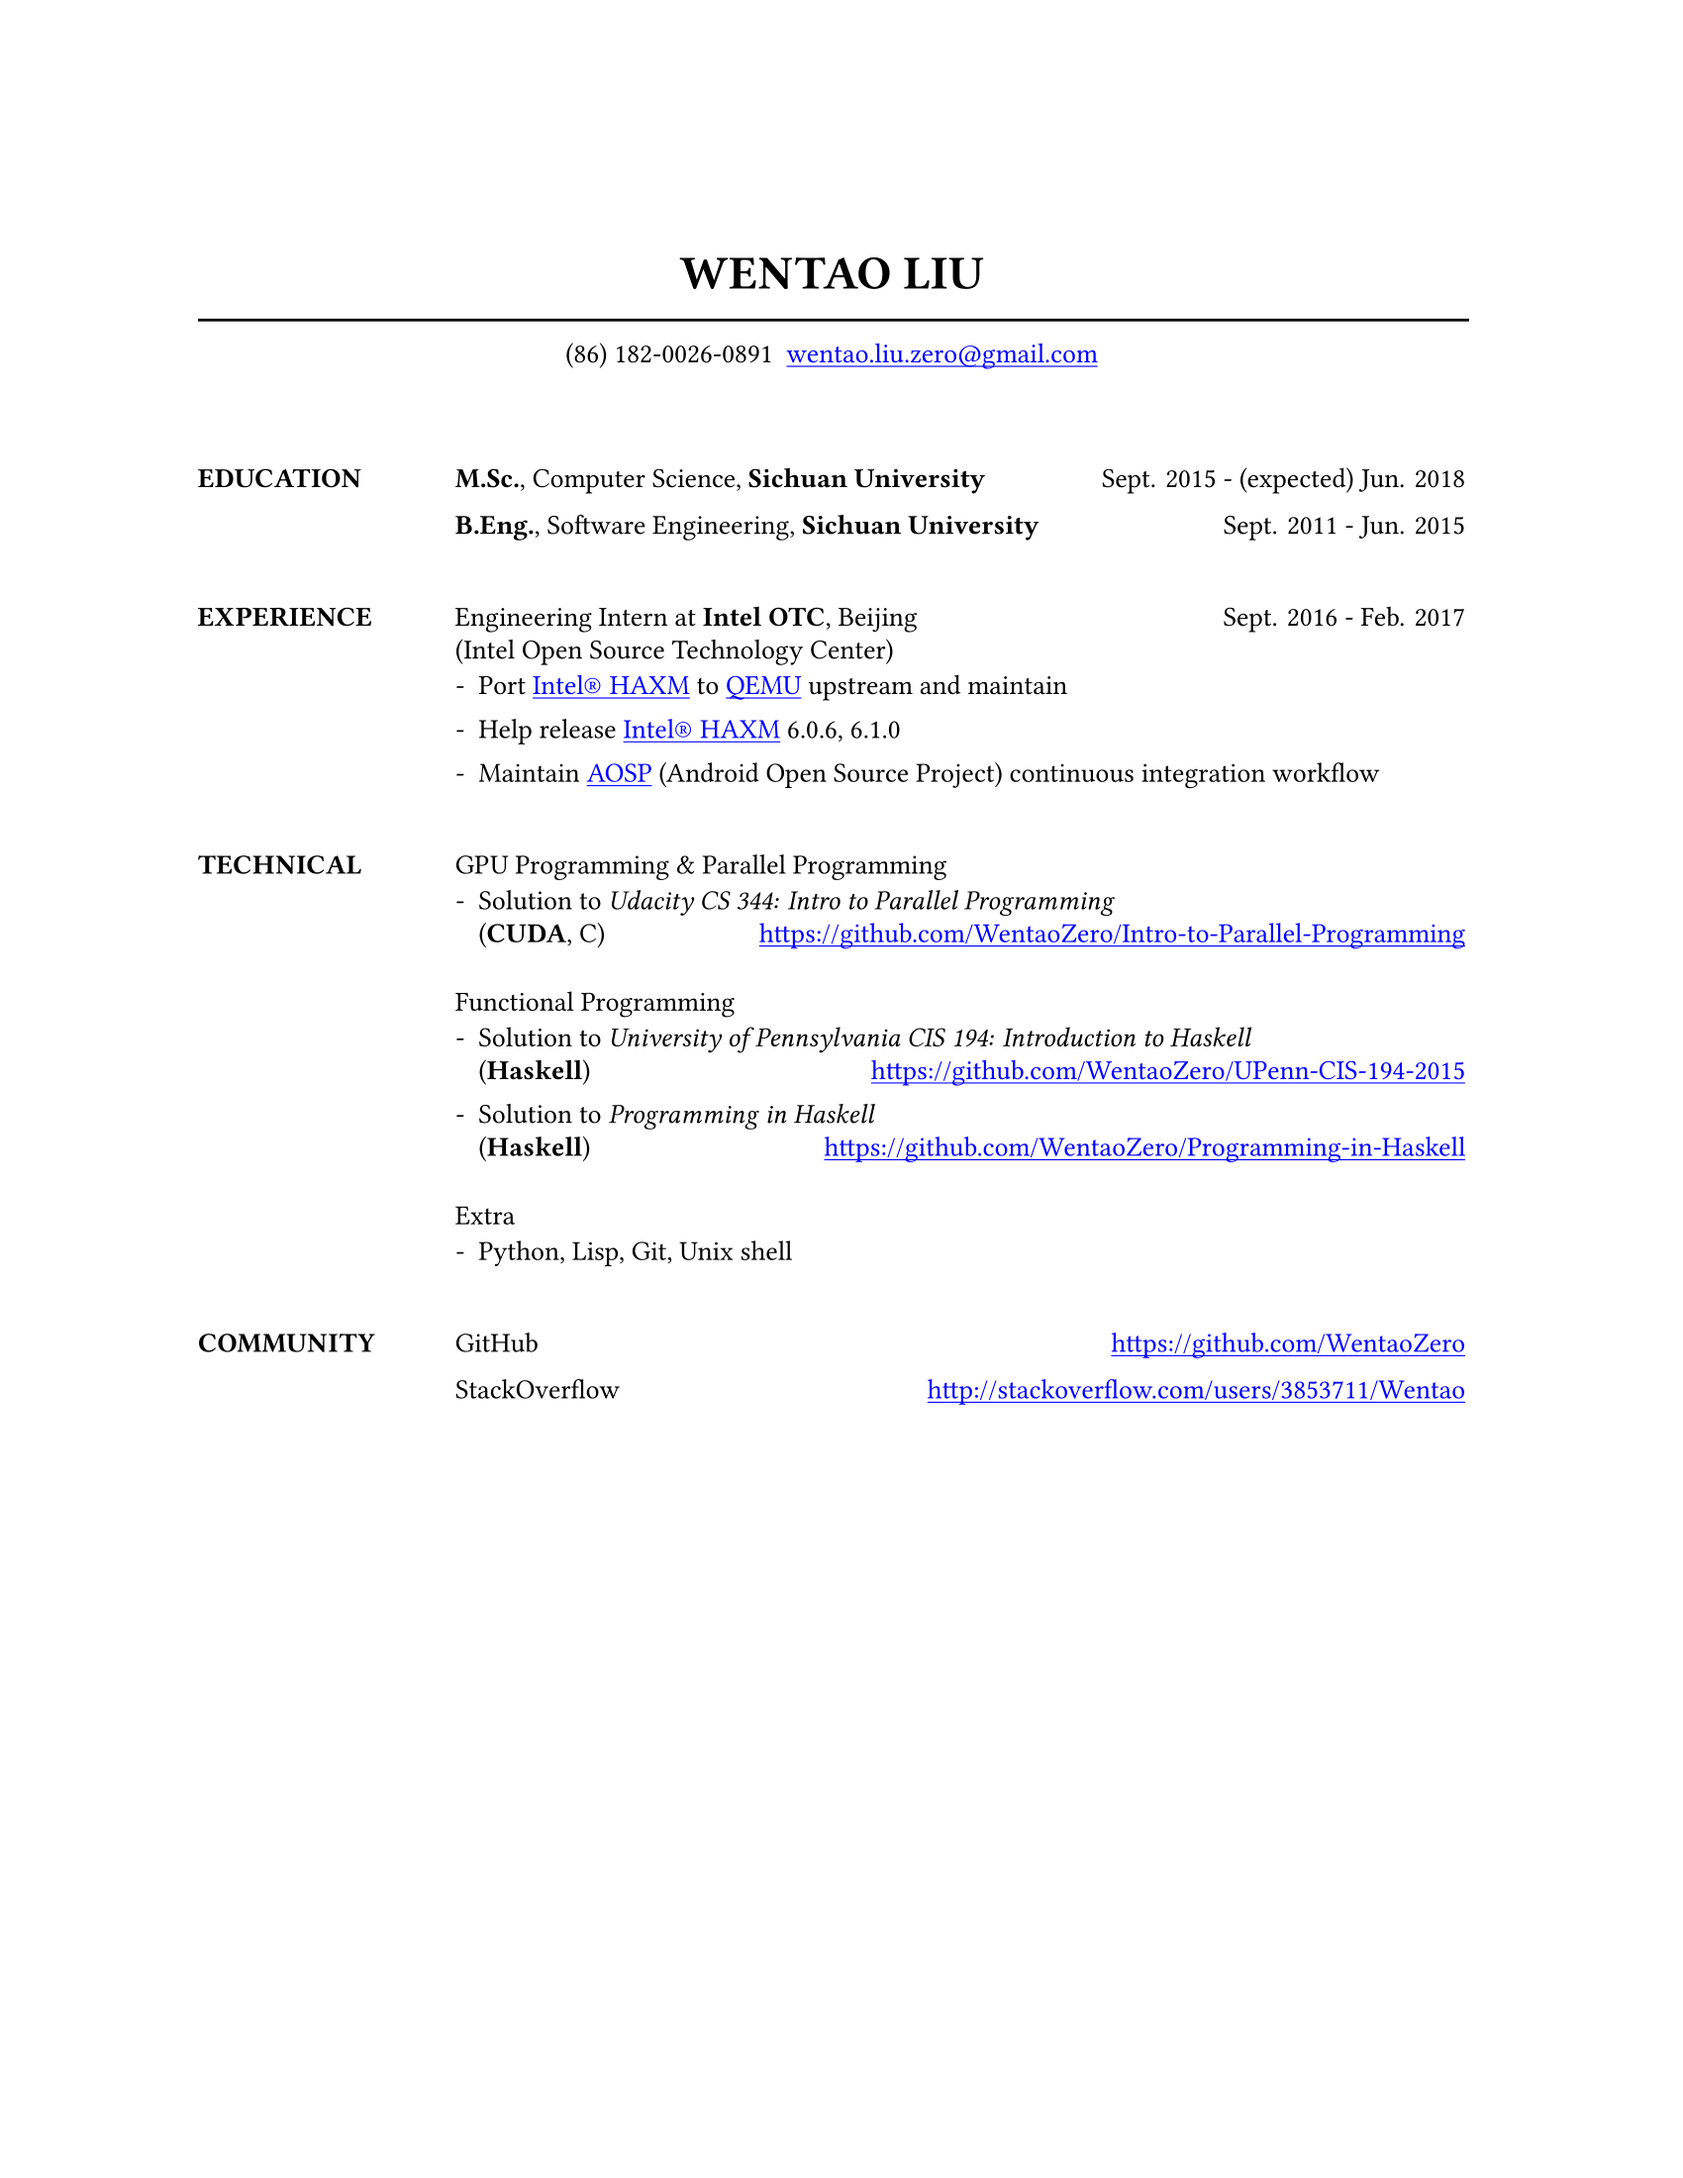
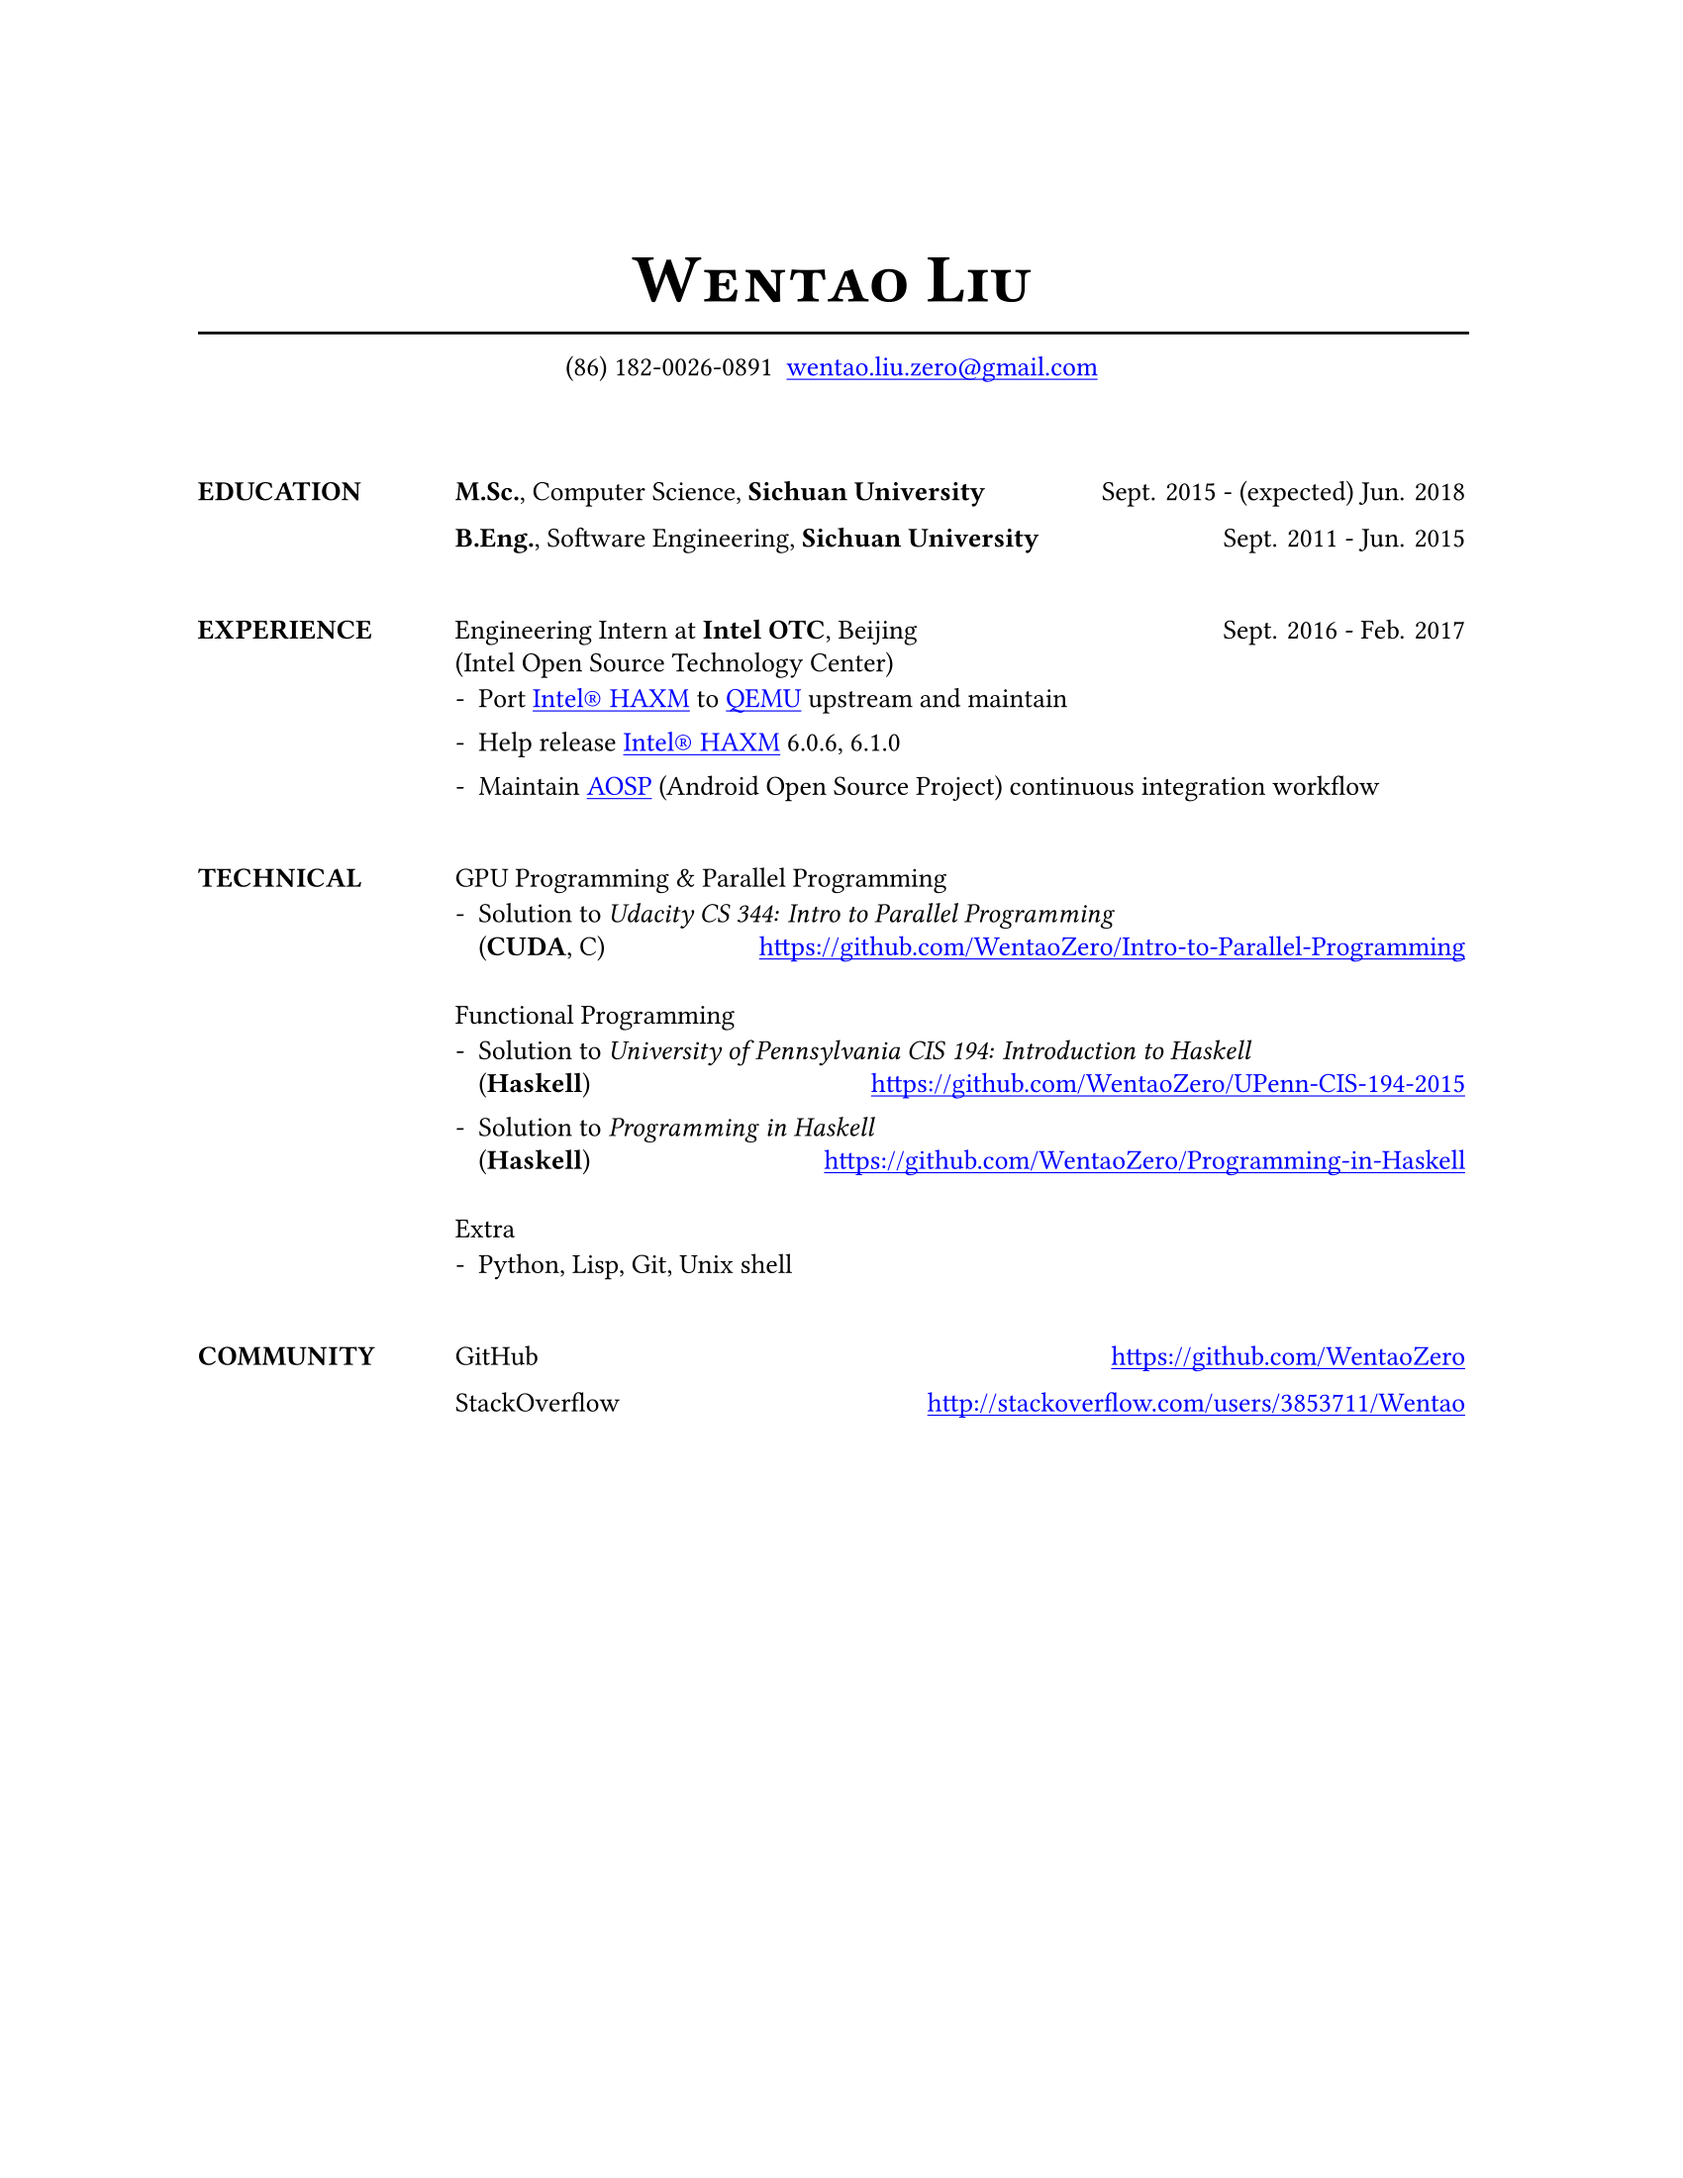
make name small caps, \LARGE -> \Huge

diff --git a/Resume-Wentao-LIU.tex b/Resume-Wentao-LIU.tex
@@ -11,7 +11,7 @@
 %disable Linux Libertine Semibold
 
 \def \Email {wentao.liu.zero@gmail.com}
-\def \Name  {WENTAO LIU}
+\def \Name  {Wentao Liu}
 \def \Phone {(86) 182-0026-0891}
 
 \hypersetup{colorlinks, breaklinks, linkcolor=black, urlcolor=blue, anchorcolor=black, citecolor=black, pdftitle={Resume - \Name}, pdfauthor={\Name}}
@@ -20,7 +20,7 @@
 \begin{document}
 
 \def \HEADER {
-	\moveleft.5\hoffset\centerline{\LARGE \bf \Name} % Your name at the top
+	\moveleft.5\hoffset\centerline{\Huge \scshape \bfseries \Name} % Your name at the top
 	\moveleft\hoffset\vbox{\hrule width\resumewidth height 1pt}\smallskip % Horizontal line after name; adjust line thickness by changing the '1pt'
 	\moveleft.5\hoffset\centerline{{\Phone} {\hspace*{0.0em}} {\href {mailto:\Email}{\underline{\smash{\Email}}}}}
 }
